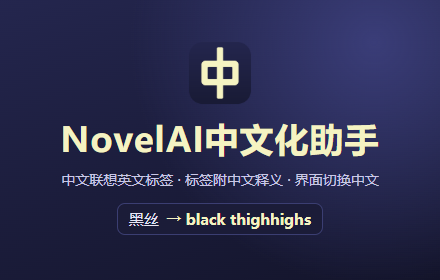
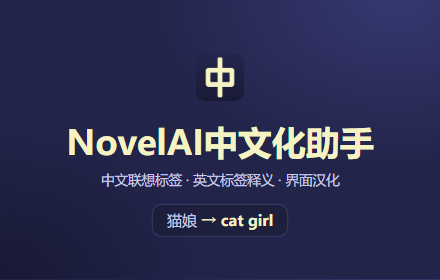
Refresh the store promo images and add an intro screenshot
The marquee and small tile use the new summary and the 猫娘 example, and the intro screenshot repeats the marquee design at 1280x800.

Claude-Session: https://claude.ai/code/session_01Q59gkqNK4w4Z7nFEPqRxWh

diff --git a/store/README.md b/store/README.md
@@ -73,7 +73,7 @@ Notes
 - 类别：艺术与设计（Art & Design）；列表里没有的话选「工具」（Tools）
 - 语言：中文（简体）
 - 商店图标（128×128）：上传 `icon-128.png`，和扩展包里的 `icons/128.png` 相同（`npm run crx` 生成）
-- 屏幕截图（1280×800，最多 5 张）：`screenshot-1-ui.png`、`screenshot-2-popup.png`（扩展面板的首页和设置）、`screenshot-3-tags.png`（输入「猫娘」时的中文标签联想）、`screenshot-4-english.png`（输入「cat ea」时英文联想附中文）
+- 屏幕截图（1280×800，JPEG 或不带透明通道的 24 位 PNG，最多 5 张）：`screenshot-0-intro.png`（总览，和顶部宣传图同样的设计）、`screenshot-1-ui.png`、`screenshot-2-popup.png`（扩展面板的首页和设置）、`screenshot-3-tags.png`（输入「猫娘」时的中文标签联想）、`screenshot-4-english.png`（输入「cat ea」时英文联想附中文）
 - 小型宣传图块（440×280，必填）：`promo-small-440x280.png`
 - 顶部宣传图块（1400×560，可选）：`promo-marquee-1400x560.png`
 - 官方网址：不填（没有已验证的网站）；首页网址：https://github.com/TomorrowX6/NovelAI-CN ；支持网址：https://github.com/TomorrowX6/NovelAI-CN/issues
